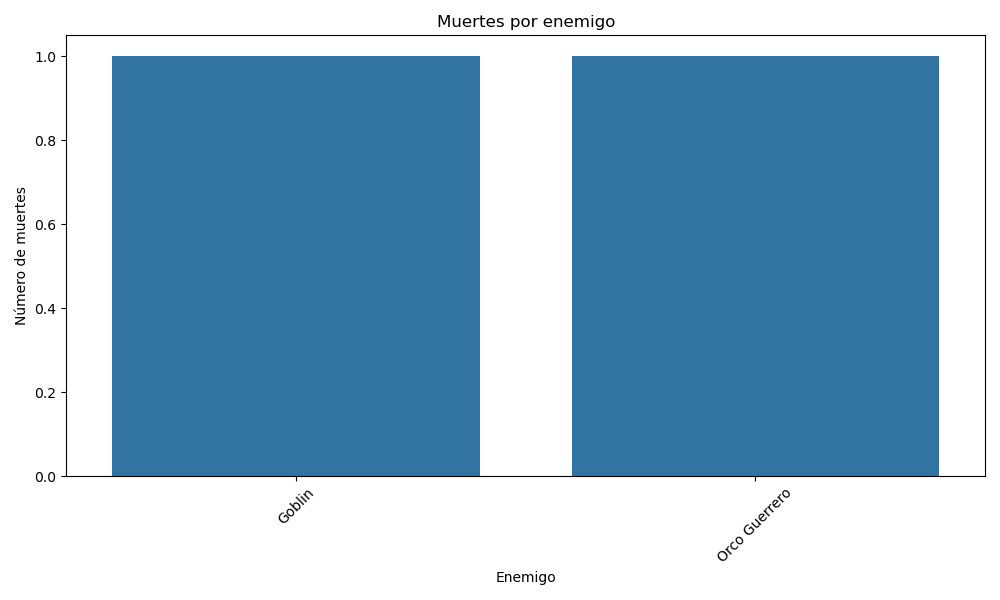
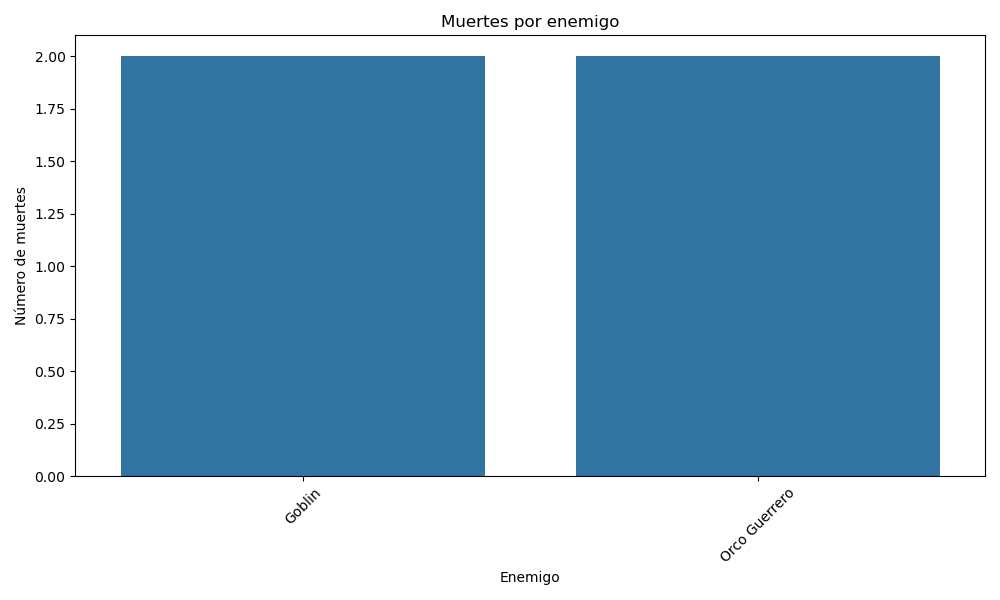
funcionan las estadisticas

diff --git a/backend/index.js b/backend/index.js
@@ -42,6 +42,7 @@ require('dotenv').config({ path: './environment/.env' });
     //startBossService();
     //startShopService();
     //startItemService();
+    
     //await seedItems(); // 👈 esto inserta los items en la DB
     //await seedGames(); // 👈 esto inserta los juegos en la DB
     //await seedPlayers(); // 👈 esto inserta los jugadores en la DB
@@ -49,6 +50,7 @@ require('dotenv').config({ path: './environment/.env' });
     //await seedBosses(); // 👈 esto inserta los jefes en la DB
     //await seedInventory(); // 👈 esto inserta los inventarios en la DB
     //await seedShop(); // 👈 esto inserta los tiendas en la DB
+    await seedEnemyDeathStats(); // 👈 esto inserta las estadísticas de muertes en la DB
     console.log('Todos los servicios iniciados correctamente');
   } catch (error) {
     console.error('Error:', error);

diff --git a/backend/scripts/generate_enemy_death_stats.py b/backend/scripts/generate_enemy_death_stats.py
@@ -1,9 +1,9 @@
 import os
-import pymysql
 import pandas as pd
 import seaborn as sns
 import matplotlib.pyplot as plt
 from datetime import datetime
+from sqlalchemy import create_engine
 
 # Load DB credentials from environment variables
 DB_NAME = os.getenv('DB_NAME')
@@ -16,17 +16,15 @@ DB_PORT = int(os.getenv('DB_PORT', 3306))
 OUTPUT_DIR = os.path.join(os.path.dirname(__file__), '../stat_images')
 os.makedirs(OUTPUT_DIR, exist_ok=True)
 
-# Connect to the database
-conn = pymysql.connect(
-    host=DB_HOST,
-    user=DB_USER,
-    password=DB_PASS,
-    database=DB_NAME,
-    port=DB_PORT
-)
+# Create SQLAlchemy engine for MySQL
+engine = create_engine(f"mysql+pymysql://{DB_USER}:{DB_PASS}@{DB_HOST}:{DB_PORT}/{DB_NAME}")
 
 # Query enemy death stats
-df = pd.read_sql('SELECT * FROM enemy_death_stat', conn)
+df = pd.read_sql('SELECT * FROM enemy_death_stat', engine)
+
+print(f"[enemy-death-stats] Filas encontradas en enemy_death_stat: {len(df)}")
+
+img_path = os.path.join(OUTPUT_DIR, 'deaths_per_enemy.png')
 
 # Example plot: deaths per enemy
 if not df.empty:
@@ -37,10 +35,18 @@ if not df.empty:
     plt.xlabel('Enemigo')
     plt.xticks(rotation=45)
     plt.tight_layout()
-    img_path = os.path.join(OUTPUT_DIR, 'deaths_per_enemy.png')
     plt.savefig(img_path)
     plt.close()
+    print(f"[enemy-death-stats] Imagen guardada en: {img_path}")
+else:
+    # Guardar imagen vacía para comprobar que la ruta funciona
+    plt.figure(figsize=(8, 4))
+    plt.text(0.5, 0.5, 'No hay datos', fontsize=20, ha='center', va='center')
+    plt.axis('off')
+    plt.tight_layout()
+    plt.savefig(img_path)
+    plt.close()
+    print(f"[enemy-death-stats] No hay datos. Imagen vacía guardada en: {img_path}")
 
-    # You can add more plots here, e.g., deaths per boss, per player, etc.
+# Puedes añadir más gráficos aquí, por ejemplo: muertes por boss, por jugador, etc.
 
-conn.close()
